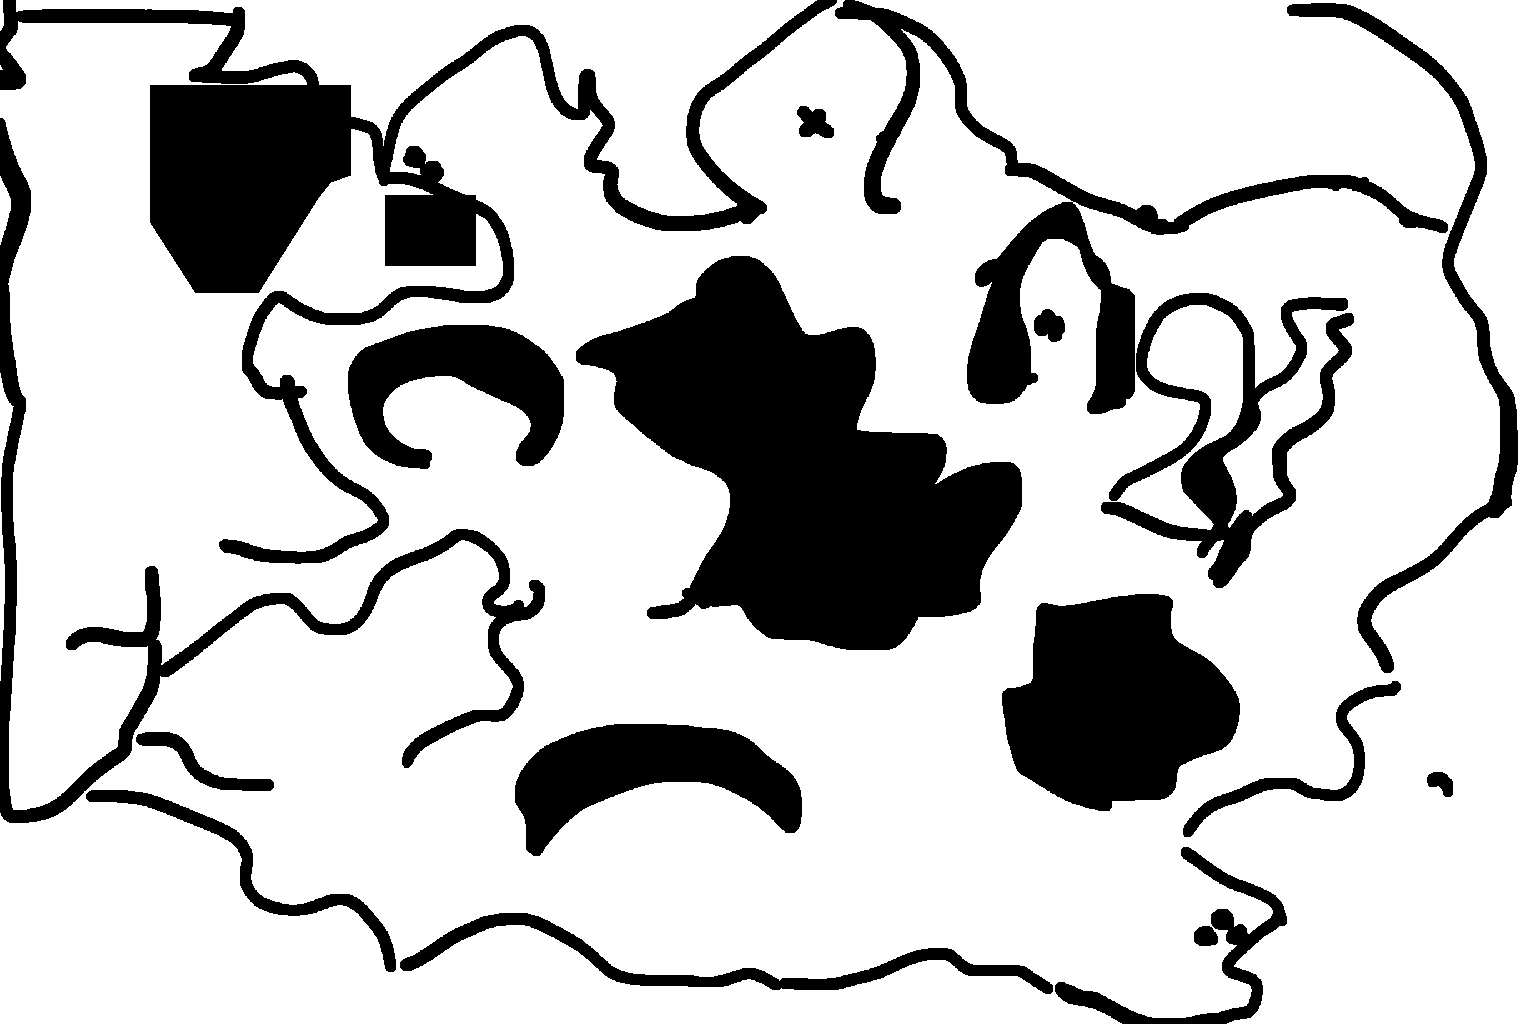
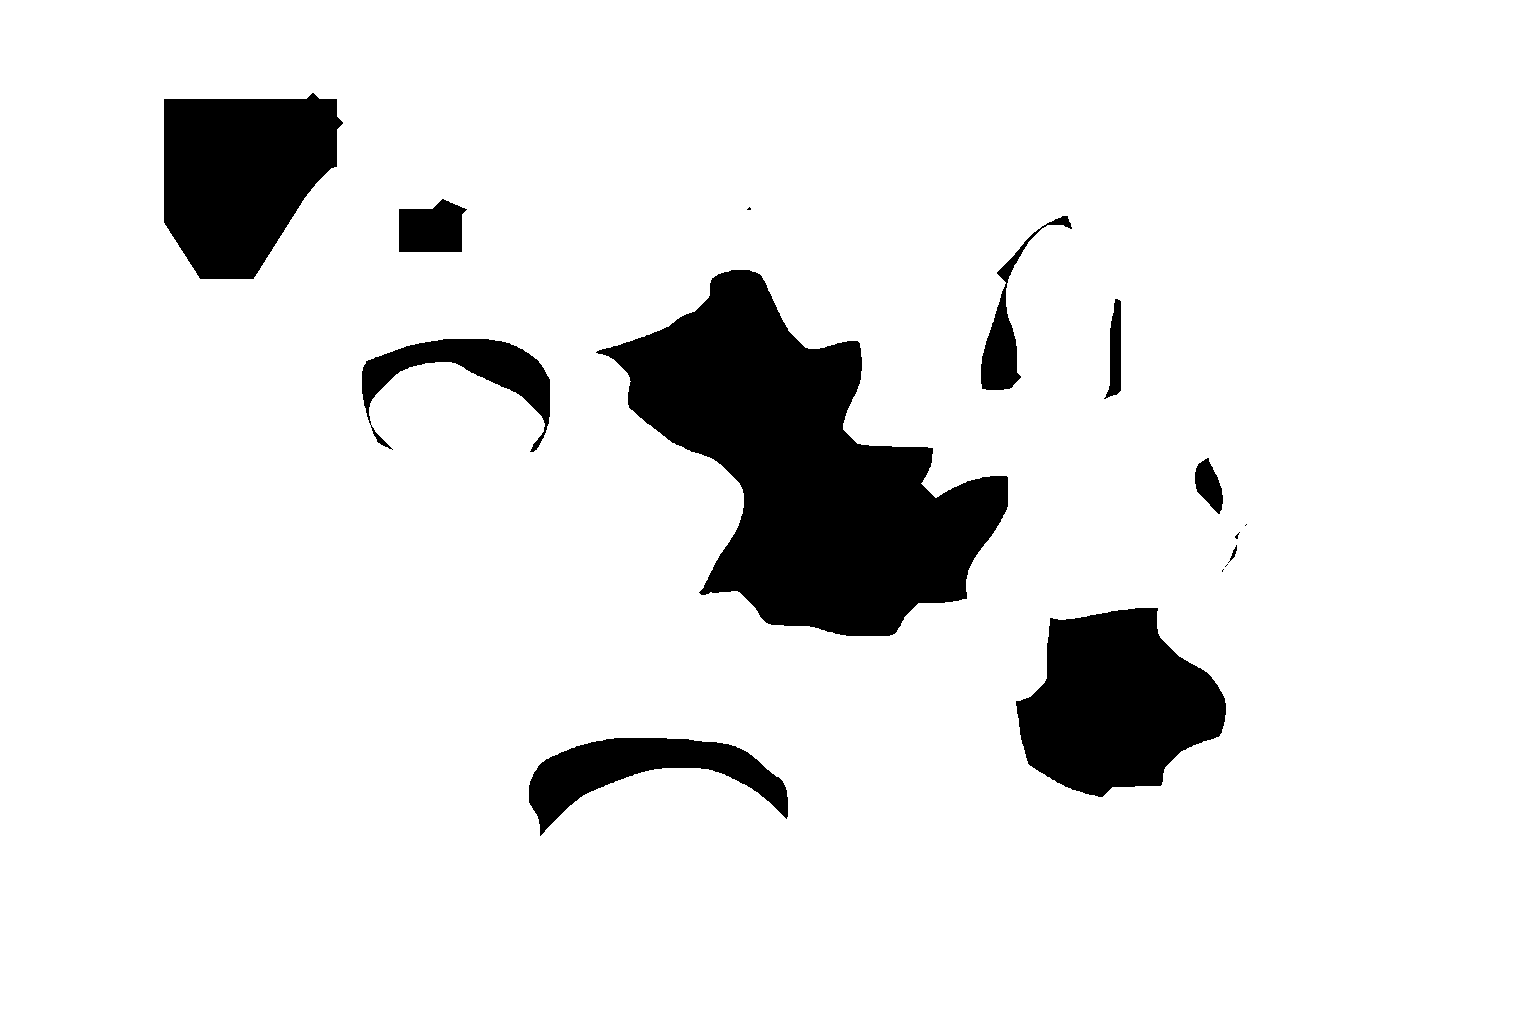
[deploy] V10.7: widen Level 2 collision corridors (fix too-tight/too-loose feel)
The hand-drawn collision mask from V10.6 correctly enclosed every
building/obstacle, but the walkable corridors between them were only
as wide as Scarlett's pen strokes happened to leave - sometimes only
5-6px, well under the ~16-20px the character needs to pass (collision
checks a left/center/right point spaced 16px apart).

Fix: erode the blocked regions by 14 px (tools/level2_walk_mask.png
regenerated), which widens narrow corridors much more than it shrinks
large solid buildings. Verified:
- walkable area up from 77.8% to 90.6% of the map
- 5th-percentile corridor width now ~26px (was far under 16px)
- single connected walkable region, all 8 key points (start, gate,
  key, princessQuestion, chainGoth, devil's fingers, tom's journal,
  relationshipChallenge) reachable from start
- treehouse/gazebo/cabin footprints still clearly solid

Bumped cache-busters to v=10070 and version label to V10.7.

Claude-Session: https://claude.ai/code/session_01Mi8TEfe51ogE13sifMmyQt

diff --git a/js/levels/level2-walk.js b/js/levels/level2-walk.js
@@ -1,2 +1,2 @@
 /* Level 2 (Mystical Forest) walk grid - GENERATED by tools/build_level2_walk.py from tools/level2_walk_mask.png, edit that mask image and re-run. */
-export const LEVEL2_WALK_RLE = '0,1,3,199,6,2,4,169|0,1,3,198,6,3,7,104,16,46|0,1,3,2,44,8,3,140,5,3,14,99,18,44|0,1,60,138,5,5,16,97,20,42|0,1,60,137,5,6,18,109,8,40|0,1,3,1,56,136,5,16,12,108,8,38|0,1,3,54,3,66,6,62,5,20,11,109,7,37|4,53,4,63,11,59,5,22,4,1,7,109,7,35|4,53,4,61,14,57,5,24,4,2,6,109,7,34|3,53,4,61,7,4,4,56,4,27,4,3,5,110,7,32|2,53,5,60,5,8,4,53,5,29,4,3,5,110,7,31|1,54,4,59,5,11,3,52,5,30,5,3,5,111,6,30|2,52,4,59,5,12,3,51,5,32,4,4,4,112,7,28|3,50,5,58,5,14,3,49,5,34,3,5,4,113,6,27|3,50,4,57,5,16,3,47,5,36,3,6,4,113,6,26|4,48,5,12,7,37,5,17,3,46,5,37,4,5,4,115,5,25|5,46,5,10,11,34,6,18,3,45,5,38,4,6,4,115,6,23|6,42,7,7,16,32,5,20,3,8,2,34,5,40,3,7,3,116,6,22|6,41,23,5,4,30,5,22,3,6,4,31,5,42,3,7,4,116,5,22|6,41,20,9,3,28,5,24,3,6,4,30,5,42,4,8,3,118,4,21|6,44,13,14,3,26,5,25,3,6,4,28,6,43,4,8,3,119,4,20|6,31,51,17,5,26,3,5,5,27,6,44,4,9,3,118,5,19|0,37,51,16,4,29,3,4,5,26,5,46,4,9,3,119,4,19|0,37,51,15,4,30,3,4,5,25,5,47,3,10,3,120,4,18|0,37,51,13,5,31,4,3,5,24,4,48,4,10,3,121,4,17|0,37,51,13,4,33,4,2,6,23,4,48,4,10,3,121,4,17|0,37,51,12,4,34,5,1,7,21,4,24,2,22,5,10,3,122,4,16|0,37,51,11,4,36,8,1,4,20,4,23,7,18,4,11,3,122,4,16|0,37,51,10,4,38,7,2,4,19,3,24,7,17,5,11,4,122,3,16|1,36,53,8,3,41,4,3,4,19,3,25,6,16,5,13,4,121,4,15|1,36,56,4,4,49,4,18,3,26,5,16,4,14,5,121,3,15|1,36,57,3,3,50,4,17,4,25,8,13,5,15,5,120,3,15|2,35,51,2,5,2,3,50,3,18,4,25,8,13,4,17,5,119,4,14|2,35,51,4,3,1,3,50,4,18,4,25,3,2,3,12,5,18,6,118,3,14|2,35,51,5,6,49,4,20,3,44,5,21,6,116,3,14|3,34,51,5,6,49,4,20,3,44,5,22,7,114,4,13|3,34,51,5,6,3,3,42,4,21,4,43,4,25,6,114,3,13|3,34,51,5,5,3,5,40,4,22,4,42,5,27,4,114,3,13|3,34,51,5,5,3,5,40,4,23,4,41,4,29,3,114,3,13|4,33,51,5,5,3,5,40,3,24,5,39,5,29,3,114,4,12|4,33,51,5,5,3,9,36,7,21,5,38,4,30,3,115,3,12|5,32,51,6,4,4,8,36,8,21,4,38,4,30,9,109,3,12|5,32,51,6,3,8,6,36,8,20,5,36,5,30,11,107,3,12|6,31,51,6,10,1,6,40,4,21,5,35,4,31,13,104,4,12|6,31,48,9,16,41,3,23,5,34,4,38,7,57,20,26,3,13|0,1,6,30,46,12,14,42,3,24,6,32,4,40,7,50,26,24,4,13|0,1,6,30,45,21,8,40,3,25,6,31,4,41,8,43,33,22,4,13|0,2,6,29,44,25,8,37,4,25,6,30,4,43,8,37,17,8,2,3,8,21,3,14|0,2,6,29,43,28,8,35,4,26,7,28,4,45,8,32,15,21,7,18,4,14|0,3,5,29,42,17,23,32,5,26,7,27,8,43,9,26,13,28,6,17,3,15|0,3,5,29,42,17,25,31,6,26,7,25,9,40,3,1,11,20,11,34,5,15,4,15|0,3,5,29,41,18,26,31,6,25,8,25,8,38,6,2,11,3,3,11,8,39,5,14,3,16|0,3,5,29,41,18,27,31,8,19,11,26,7,36,9,4,15,8,7,43,5,13,3,16|0,2,5,30,40,19,28,31,10,11,14,70,10,8,11,6,7,47,6,9,4,16|0,2,5,30,39,20,23,2,4,32,32,69,12,11,8,5,6,50,9,5,3,17|0,2,5,30,39,20,23,3,4,32,26,1,3,69,14,11,17,51,11,2,4,17|0,1,6,31,37,21,23,4,3,35,20,75,15,13,13,54,11,1,3,18|0,1,5,33,35,22,23,4,4,38,10,80,16,15,11,61,4,1,3,18|0,1,5,33,35,22,23,5,3,127,18,17,2,71,4,18|6,34,33,23,23,5,3,126,19,90,3,19|5,36,32,23,23,5,4,124,8,7,5,90,3,19|5,36,31,24,23,6,3,124,8,9,4,88,3,20|4,38,29,25,23,6,3,123,8,11,3,88,3,20|4,39,28,25,23,6,3,122,9,11,4,87,3,20|4,39,27,26,23,6,3,53,8,60,9,12,5,86,2,21|3,41,25,27,23,7,2,51,11,56,12,13,5,84,3,21|3,41,25,57,2,49,15,53,12,14,6,83,3,21|3,42,23,58,2,48,17,51,12,15,6,84,3,20|3,43,21,59,2,47,18,51,12,16,5,84,3,20|2,44,21,58,3,46,20,50,12,16,6,83,4,19|2,45,19,59,3,46,21,49,11,18,5,84,3,19|2,46,18,35,8,15,4,46,21,50,1,2,7,19,6,82,4,18|2,46,17,34,17,5,6,47,21,52,8,20,7,81,4,17|2,65,5,25,29,48,22,51,8,20,8,13,7,61,3,17|2,64,8,22,6,6,17,48,23,50,9,20,9,9,13,18,12,28,4,16|2,63,10,20,5,15,8,47,27,49,9,20,9,7,17,13,16,28,4,15|2,63,4,2,6,17,4,71,28,49,9,20,9,6,7,5,7,11,17,28,4,15|2,62,4,4,8,12,5,71,30,48,9,6,2,12,9,5,5,10,6,10,5,9,2,30,4,14|2,61,4,7,22,70,32,47,10,5,4,11,9,4,4,14,5,9,3,12,3,29,4,13|2,61,4,9,19,68,36,46,11,3,7,8,10,3,4,17,4,8,3,10,5,30,4,12|2,61,3,13,13,69,38,46,11,2,8,8,10,3,3,18,4,8,4,8,6,30,4,12|3,59,4,43,15,34,42,44,12,2,8,8,10,2,4,19,4,8,3,7,6,32,3,12|3,59,3,39,24,27,45,9,7,28,13,1,8,8,10,2,3,21,3,8,4,6,4,34,3,12|3,59,3,35,30,21,51,3,12,27,13,2,6,9,10,1,4,21,3,9,3,7,3,34,3,12|3,58,3,33,35,16,70,25,14,5,3,9,10,1,3,23,2,10,3,6,4,33,3,12|3,58,3,31,38,14,71,25,14,17,10,1,3,23,2,10,4,6,4,32,3,12|3,58,3,28,43,10,73,25,15,16,13,24,3,10,3,7,4,31,3,12|3,57,4,26,46,8,75,23,16,16,13,24,3,10,3,8,3,31,4,11|3,57,3,26,48,7,75,23,16,16,13,24,3,9,4,7,4,31,4,11|4,56,3,25,50,6,75,23,16,16,13,24,3,9,3,7,4,33,3,11|4,56,3,25,50,6,75,23,16,16,13,24,3,8,4,6,4,34,3,11|4,56,4,23,52,10,70,23,16,16,13,24,3,8,3,6,4,35,4,10|4,56,5,22,53,12,67,23,16,16,13,24,3,7,3,6,4,37,3,10|4,57,4,22,53,13,66,23,17,15,14,23,3,5,5,6,3,38,4,9|4,58,4,4,3,14,18,9,27,13,65,23,17,15,10,1,4,22,3,3,6,7,3,39,4,8|5,57,4,4,4,13,15,14,25,13,64,24,17,15,10,2,5,20,3,1,7,8,3,39,4,8|0,1,4,58,5,2,6,11,13,18,23,13,64,24,15,17,10,3,7,17,9,10,3,40,4,7|0,1,4,59,13,10,11,22,21,13,64,24,14,17,11,4,12,11,7,12,4,39,5,6|0,1,4,60,11,11,10,25,19,12,64,26,12,18,10,7,12,9,5,15,3,40,4,6|0,2,4,60,8,13,10,27,17,12,64,27,10,18,10,12,8,9,4,16,3,40,5,5|0,2,4,65,4,12,9,31,14,12,63,29,7,20,9,18,4,8,3,16,4,41,4,5|0,3,3,65,4,13,8,33,12,13,62,56,9,19,3,7,5,15,3,42,4,5|0,3,3,66,3,13,8,34,11,13,61,57,5,23,3,7,5,15,3,42,4,5|0,3,3,66,4,12,8,35,10,14,60,85,3,7,5,14,4,42,4,5|0,3,3,66,4,12,8,36,9,15,59,84,3,7,6,12,5,43,4,5|0,3,3,67,4,12,7,36,9,16,57,85,3,7,6,11,5,44,4,5|0,2,3,68,4,12,7,37,7,19,55,84,4,6,6,10,6,45,4,5|0,2,3,69,3,12,8,35,8,20,55,83,3,7,6,8,7,46,4,5|0,2,3,69,4,12,8,34,8,21,73,63,4,6,6,8,7,47,4,5|0,2,3,70,3,12,9,32,8,23,74,60,4,5,7,8,6,49,4,5|0,1,4,70,4,12,9,30,9,24,73,60,3,4,8,8,5,51,4,5|0,1,3,72,4,12,10,28,8,27,71,58,5,2,8,9,5,52,4,5|0,1,3,72,4,13,14,22,8,29,71,56,5,1,9,10,4,53,4,5|0,1,3,73,4,13,14,21,8,30,69,55,5,2,8,12,4,53,4,5|0,1,3,73,5,13,13,21,7,33,67,53,6,2,9,12,4,53,4,5|0,1,3,74,4,15,10,22,6,36,65,11,6,34,7,2,10,12,4,53,4,5|3,76,4,17,7,67,62,7,11,31,7,4,10,12,4,52,5,5|3,77,4,93,59,4,15,28,7,5,12,11,4,52,5,5|3,78,5,93,56,3,17,26,7,7,12,11,4,52,5,5|3,79,5,93,54,2,19,25,6,9,13,10,4,51,5,6|3,80,5,93,53,1,20,24,5,11,13,11,4,50,5,6|3,81,6,92,73,23,4,13,14,10,4,50,5,6|3,83,6,90,73,23,3,15,13,11,4,49,5,6|3,85,5,89,73,22,3,16,13,12,3,49,5,6|3,86,5,88,73,22,3,17,12,10,5,48,6,6|3,88,4,87,73,21,4,18,11,8,6,49,6,6|3,89,4,86,73,20,8,16,10,7,7,47,7,7|3,90,3,86,73,20,10,15,9,2,1,2,7,48,7,8|3,90,4,85,72,23,10,14,7,2,9,48,8,9|3,91,3,85,72,27,8,13,6,1,8,49,5,13|3,91,3,84,72,30,8,12,4,1,8,49,5,14|3,90,4,84,72,32,10,8,4,1,7,49,5,15|3,88,5,17,5,62,72,35,27,49,4,17|3,84,8,17,9,59,71,38,24,49,5,17|0,1,3,81,9,16,12,57,72,41,21,49,4,18|0,1,3,51,6,23,8,17,5,4,5,56,71,50,4,2,7,48,4,19|0,1,3,51,9,18,6,19,6,7,4,54,71,50,4,2,8,47,4,20|0,1,3,51,15,9,8,17,8,9,4,52,71,51,3,3,8,46,4,21|0,1,3,55,26,16,9,12,4,50,72,51,3,2,8,45,5,22|0,1,3,58,21,16,9,15,4,49,71,57,8,44,5,23|0,1,3,63,13,17,8,19,3,48,71,57,8,44,5,24|0,1,3,33,2,57,6,22,3,48,71,57,7,43,6,25|0,1,3,32,3,56,5,24,3,47,71,57,7,42,6,27|0,1,3,32,4,54,5,26,2,47,71,57,7,40,7,28|0,1,3,32,4,53,4,28,2,46,72,57,6,39,7,30|0,1,3,32,4,52,4,28,3,5,3,38,72,58,4,38,7,32|0,1,3,32,4,52,4,27,4,5,4,36,73,59,2,38,7,33|0,1,3,32,4,52,3,27,4,7,3,34,75,98,6,35|0,1,3,32,4,26,7,18,4,26,5,7,3,34,75,39,6,52,5,37|0,1,3,33,3,23,11,17,3,27,3,9,3,35,74,32,16,48,5,38|0,1,3,33,3,21,14,16,3,26,3,5,3,2,3,34,75,27,21,48,4,39|0,1,3,33,3,20,6,6,4,14,3,28,10,1,4,28,9,2,2,1,2,5,59,15,34,47,4,40|0,1,3,33,3,18,5,10,4,13,3,28,14,27,10,14,57,16,34,47,3,41|0,1,3,33,3,17,5,12,4,11,3,30,12,28,9,15,54,19,34,46,4,41|0,1,3,33,3,16,5,14,4,9,4,32,9,29,5,20,42,30,34,46,4,41|0,1,3,32,4,14,6,16,5,5,5,32,5,60,41,30,34,46,4,41|0,1,3,32,4,13,5,19,13,32,4,62,40,31,34,46,4,41|0,1,3,15,11,6,4,12,5,21,11,33,3,65,38,31,34,46,5,40|0,1,3,14,22,11,5,25,6,35,3,66,36,32,34,47,4,40|0,1,3,13,22,11,4,68,3,68,33,32,36,47,4,39|0,1,3,12,6,3,15,8,5,69,3,80,20,33,37,46,5,38|0,1,2,13,4,10,10,7,5,70,3,83,16,34,38,46,5,37|3,34,3,6,5,71,3,133,40,45,4,37|3,34,3,4,6,72,4,132,42,43,5,36|3,34,3,3,5,75,4,131,44,42,4,36|3,34,3,1,6,77,4,130,45,41,4,36|3,34,9,79,4,129,46,41,3,36|3,34,7,82,4,128,47,40,3,36|3,34,6,83,4,128,48,78|3,33,4,87,4,127,48,78|3,33,4,88,3,127,49,41,2,34|3,33,4,88,3,124,53,35,7,34|3,32,4,89,3,120,57,32,10,34|3,32,4,88,4,119,59,29,11,35|3,31,4,89,3,120,60,27,6,41|3,31,4,88,4,120,60,25,6,43|3,30,4,89,3,122,59,25,4,45|3,29,5,81,11,122,59,24,4,46|2,30,4,79,13,123,59,24,3,47|2,29,5,77,14,124,59,24,3,47|2,29,4,76,8,132,58,25,3,47|2,28,4,75,7,35,22,78,58,25,4,46|2,28,4,73,7,32,36,69,58,26,4,45|2,28,3,1,10,61,7,31,42,66,57,28,3,45|2,28,3,1,12,58,6,30,47,65,56,29,3,44|2,27,4,1,13,56,5,30,50,64,55,30,4,43|2,27,4,9,5,55,5,29,53,63,54,32,3,43|2,26,5,11,4,53,4,30,55,63,52,33,3,43|2,24,6,13,3,53,3,30,57,62,49,36,3,43|2,23,6,14,4,51,4,29,60,60,46,39,3,43|2,22,6,16,3,51,3,29,62,59,44,41,3,43|2,21,5,18,4,51,1,29,64,59,41,43,3,43|2,19,6,20,5,78,67,57,40,44,3,43|2,18,6,21,6,77,68,57,39,44,3,16,5,22|2,17,6,23,11,70,70,58,37,22,8,14,3,16,5,22|2,16,5,27,18,61,36,10,24,60,35,19,13,11,3,17,6,21|2,15,5,30,16,61,31,20,20,60,34,17,17,8,4,17,2,1,3,21|2,14,5,2,9,28,8,61,28,25,18,62,31,15,9,6,16,21,3,21|2,13,5,1,17,91,25,30,16,64,29,12,9,11,13,23,2,21|3,11,5,2,20,88,23,34,14,65,26,12,9,16,9,47|3,9,6,11,14,86,20,39,12,68,10,23,8,75|3,7,7,20,9,83,18,42,11,71,7,22,6,78|16,23,9,82,15,45,10,74,3,22,5,80|14,28,9,80,13,48,8,98,5,81|0,1,11,32,9,78,12,50,7,97,4,83|0,2,5,40,8,76,11,52,6,97,3,84|0,49,8,74,10,54,5,96,4,84|0,52,7,72,9,56,3,97,3,85|0,54,6,71,8,157,2,86|0,56,5,70,7,246|0,58,4,69,6,247|0,59,3,69,5,248|0,59,4,69,4,159,3,86|0,60,3,70,2,160,5,84|0,60,3,233,5,83|0,60,3,234,5,82|0,60,3,236,5,80|0,60,3,237,5,79|0,60,3,238,6,77|0,60,3,240,6,75|0,60,3,242,7,72|0,60,3,243,8,70|0,61,3,244,9,67|0,61,4,17,5,224,7,66|0,62,5,12,10,225,5,65|0,63,7,7,14,225,4,64|0,64,19,4,5,225,4,63|0,66,14,8,5,211,3,11,3,63|0,69,8,13,3,30,10,170,5,10,3,63|0,90,4,26,16,167,5,9,5,62|0,91,4,22,21,165,5,8,6,62|0,92,4,19,9,8,8,160,2,1,5,1,2,3,6,64|0,93,3,17,8,14,6,158,4,4,5,1,5,66|0,93,4,14,8,18,6,155,6,2,11,67|0,94,3,13,6,23,6,153,6,2,9,69|0,95,3,10,6,26,6,153,5,3,7,70|0,95,3,9,6,29,6,161,4,71|0,95,3,7,6,33,5,80,9,70,4,72|0,96,3,5,6,35,5,76,13,68,4,73|0,96,3,2,7,38,5,73,16,66,4,74|0,96,3,1,7,41,4,70,7,8,5,63,4,75|0,96,3,1,5,44,4,66,8,12,17,49,3,76|0,96,3,2,2,47,5,29,6,26,9,14,19,47,6,73|0,151,10,20,11,20,10,19,18,47,8,70|0,152,42,1,7,5,13,35,6,47,7,69|0,155,29,6,27,40,5,2,2,45,4,69|0,172,9,11,21,45,5,1,5,44,3,68|0,260,3,1,7,42,3,68|0,264,11,38,3,68|0,265,12,35,3,69|0,267,12,33,3,69|0,271,10,30,4,69|0,274,9,23,8,70|0,276,9,15,13,71|0,278,34,72|0,280,27,77';
+export const LEVEL2_WALK_RLE = '0,384|0,384|0,384|0,384|0,384|0,384|0,384|0,384|0,384|0,384|0,384|0,384|0,384|0,384|0,384|0,384|0,384|0,384|0,384|0,384|0,384|0,384|0,384|0,78,1,305|0,77,3,304|0,41,43,300|0,41,43,300|0,41,43,300|0,41,43,300|0,41,44,299|0,41,45,298|0,41,44,299|0,41,43,300|0,41,43,300|0,41,43,300|0,41,43,300|0,41,43,300|0,41,43,300|0,41,43,300|0,41,43,300|0,41,43,300|0,41,43,300|0,41,41,302|0,41,40,303|0,41,39,304|0,41,38,305|0,41,37,306|0,41,37,306|0,41,36,307|0,41,35,308|0,41,34,35,2,272|0,41,34,34,6,269|0,41,33,26,16,268|0,41,32,27,15,269|0,41,32,27,15,149,3,117|0,41,31,28,15,147,5,117|0,42,30,28,15,145,1,5,2,116|0,42,29,29,15,144,1,124|0,43,27,30,15,143,1,125|0,43,27,30,15,142,1,126|0,44,25,31,15,141,1,127|0,45,23,32,15,140,1,128|0,45,23,32,15,139,2,128|0,46,21,187,1,129|0,47,19,187,2,129|0,47,19,186,2,130|0,48,17,186,2,131|0,49,16,118,4,63,3,131|0,49,15,115,11,59,4,131|0,50,13,115,13,59,2,132|0,178,13,60,1,132|0,177,15,59,1,132|0,177,15,192|0,177,16,57,1,133|0,177,16,57,1,133|0,176,17,57,1,28,1,104|0,175,19,55,2,27,2,104|0,174,20,55,3,26,2,104|0,171,24,54,3,26,2,104|0,170,25,53,4,26,2,104|0,168,28,52,4,26,2,104|0,167,29,52,5,25,2,104|0,165,32,50,6,24,3,104|0,162,36,49,6,24,3,104|0,159,40,48,7,23,3,104|0,106,20,30,44,10,5,31,8,23,3,104|0,101,28,24,48,6,8,31,8,23,3,104|0,99,32,19,65,31,8,23,3,104|0,96,36,19,64,31,8,23,3,104|0,93,41,19,62,30,9,23,3,104|0,91,18,4,22,19,61,30,9,23,3,104|0,91,12,12,20,20,60,30,9,23,3,104|0,91,10,16,19,20,59,30,9,23,3,104|0,90,9,20,18,20,58,30,10,22,3,104|0,90,8,23,16,20,58,30,10,22,3,104|0,90,7,26,14,20,58,30,9,23,3,104|0,90,6,29,12,20,57,31,8,24,3,104|0,90,5,33,9,20,57,63,3,104|0,91,3,36,7,20,57,62,3,105|0,91,2,38,6,20,56,171|0,91,2,39,5,20,56,171|0,91,1,41,4,20,55,172|0,91,1,42,3,21,54,172|0,135,2,22,52,173|0,136,1,23,51,173|0,92,1,43,1,24,50,173|0,136,1,26,48,173|0,93,1,70,47,173|0,93,1,41,1,29,47,172|0,94,1,39,2,31,46,171|0,94,2,38,1,33,46,170|0,96,1,36,2,35,53,161|0,133,1,38,61,151|0,175,58,151|0,178,55,151|0,179,54,67,2,82|0,181,52,66,4,81|0,182,50,67,4,81|0,183,49,67,5,80|0,184,47,14,7,47,5,80|0,185,45,11,11,47,6,79|0,185,46,8,13,47,6,79|0,186,46,5,15,47,6,79|0,186,47,2,17,48,5,79|0,186,66,49,5,78|0,186,66,50,4,78|0,186,66,51,2,79|0,186,65,53,1,79|0,185,66,133|0,185,65,134|0,185,65,134|0,184,65,135|0,184,65,135|0,183,65,61,1,74|0,183,64,137|0,182,64,138|0,181,65,138|0,181,64,63,1,75|0,180,64,64,1,75|0,179,64,64,1,76|0,179,64,141|0,178,64,142|0,178,64,63,1,78|0,177,65,142|0,177,65,142|0,176,65,143|0,176,65,143|0,175,66,143|0,175,1,9,57,142|0,186,56,142|0,187,49,148|0,188,41,155|0,189,39,51,10,95|0,190,37,47,15,95|0,190,36,36,1,6,20,95|0,191,34,37,27,95|0,202,23,37,27,95|0,206,18,38,27,95|0,210,13,39,28,94|0,262,28,94|0,262,29,93|0,262,30,92|0,262,31,91|0,262,32,90|0,262,34,88|0,262,35,87|0,262,37,85|0,262,39,83|0,262,40,82|0,262,41,81|0,261,43,80|0,260,44,80|0,259,46,79|0,258,48,78|0,256,50,78|0,254,52,78|0,254,52,78|0,254,52,78|0,254,52,78|0,255,51,78|0,255,51,78|0,255,51,78|0,255,50,79|0,255,50,79|0,153,14,88,48,81|0,148,31,76,45,84|0,144,40,72,42,86|0,142,44,70,40,88|0,139,48,69,38,90|0,137,52,68,36,91|0,135,55,67,35,92|0,134,57,67,33,93|0,134,28,16,14,67,32,93|0,133,25,23,12,68,30,93|0,133,23,27,12,68,28,93|0,132,21,32,11,68,26,94|0,132,19,36,9,70,18,100|0,132,16,40,9,72,8,107|0,132,14,44,7,75,4,108|0,132,13,46,6,187|0,132,11,49,5,187|0,133,9,51,4,187|0,133,8,53,3,187|0,134,6,55,2,187|0,134,5,57,1,187|0,135,3,246|0,135,2,247|0,135,1,248|0,384|0,384|0,384|0,384|0,384|0,384|0,384|0,384|0,384|0,384|0,384|0,384|0,384|0,384|0,384|0,384|0,384|0,384|0,384|0,384|0,384|0,384|0,384|0,384|0,384|0,384|0,384|0,384|0,384|0,384|0,384|0,384|0,384|0,384|0,384|0,384|0,384|0,384|0,384|0,384|0,384|0,384|0,384|0,384|0,384|0,384|0,384|0,384';

diff --git a/js/levels/level1.js b/js/levels/level1.js
@@ -5,7 +5,7 @@ import { actionHint, hintHTML } from '../controls.js?v=9820';
 // V9.94: Level 2 runs on this same engine (createLevel1(ui, { level: 2 })). Its settings live in
 // level2-config.js; the parts this file doesn't have (Find the Princess, Devil's Fingers, Sophia)
 // are borrowed from level2.js. With no level option everything below behaves exactly as Level 1.
-import { LEVEL2 } from './level2-config.js?v=10060';
+import { LEVEL2 } from './level2-config.js?v=10070';
 import { createLevel2 } from './level2.js?v=9950';
 import { createFoe, preloadLevel2Foes } from './level2-foes.js?v=9960';   // V9.96: Devil's Fingers + Sophia on this fight screen
 // Game clock: normal time, but it stands still while a tutorial pop-up is open (so nothing happens behind it).

diff --git a/js/game.js b/js/game.js
@@ -1,6 +1,6 @@
 import { StoryController } from './story.js?v=9820';
-import { createLevel1, resetRingTutorials } from './levels/level1.js?v=10060';
-import { LEVEL2 } from './levels/level2-config.js?v=10060';   // V9.94: Level 2 runs on the Level 1 engine
+import { createLevel1, resetRingTutorials } from './levels/level1.js?v=10070';
+import { LEVEL2 } from './levels/level2-config.js?v=10070';   // V9.94: Level 2 runs on the Level 1 engine
 import { createLevel3 } from './levels/level3.js?v=9850';
 import { playMusic, setLoopSfx, playSfx, audioNeedsClick, playVoiceLine, stopVoiceLine } from './audio.js?v=9820';
 import { initSettings, openSettings } from './settings.js?v=9820';

diff --git a/js/levels/level2-config.js b/js/levels/level2-config.js
@@ -11,7 +11,7 @@
    To check positions against the collision, open the game with ?level=2&walk=1.
 
    PLACEHOLDER ART is marked "placeholder" below - Scarlett is making the real screens. */
-import { LEVEL2_WALK_RLE } from './level2-walk.js?v=10060';
+import { LEVEL2_WALK_RLE } from './level2-walk.js?v=10070';
 
 const ENC = 'assets/encounters/level2/';
 

diff --git a/index.html b/index.html
@@ -10,8 +10,8 @@
 </head>
 <body>
   <main id="app"><div id="game-root"></div></main>
-  <div id="gg-ver">V10.6</div>
-  <script type="module" src="js/game.js?v=10060"></script>
+  <div id="gg-ver">V10.7</div>
+  <script type="module" src="js/game.js?v=10070"></script>
   <script type="module" src="js/screen-polish.js?v=9820"></script>
 </body>
 </html>
